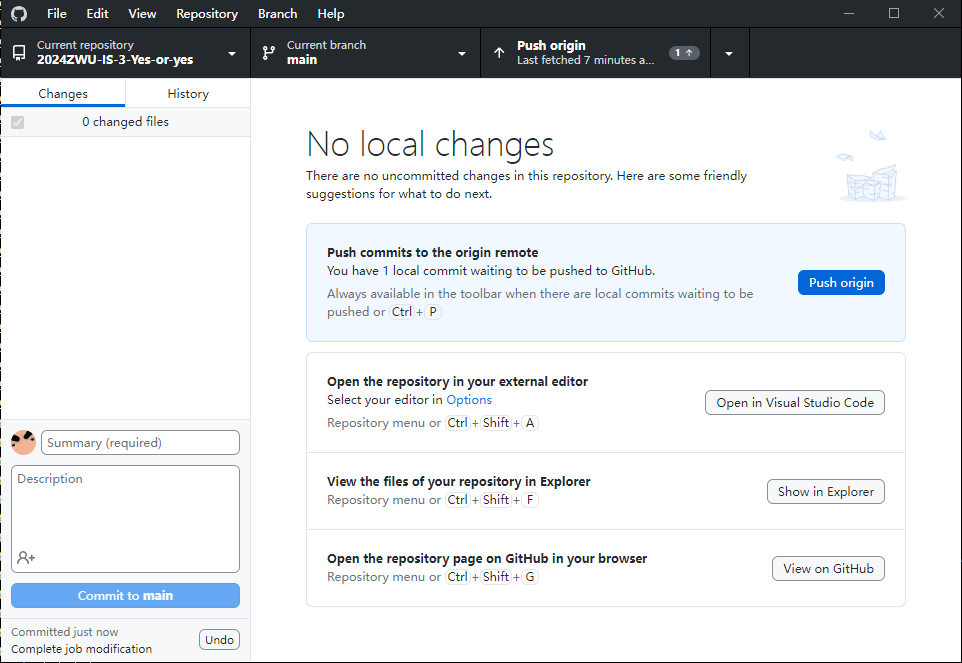
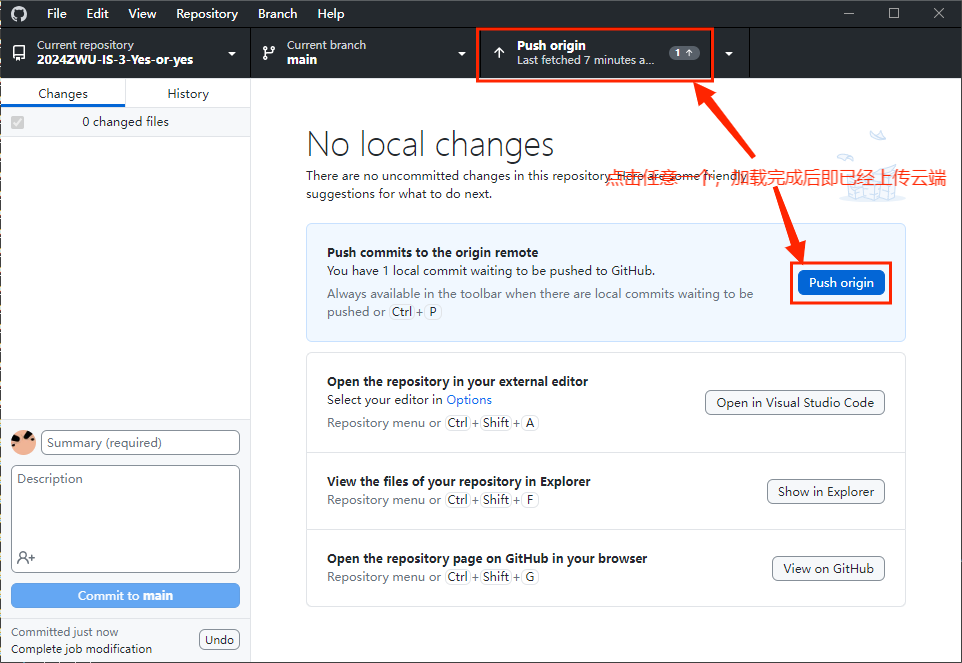
pm部分前四个问题更改完成

diff --git a/dailyhomework/pm/pm.html b/dailyhomework/pm/pm.html
@@ -250,7 +250,19 @@
       <!--第三部分-->
         <section id="section3"><h2>03 How to build the web in github</h2>
         <section id="subsection3-1"><h3>Step1:Write locally and upload to the cloud</h3>
-
+        <h4>a-Write locally</h4>
+        <img src="./pm-4/pm-4-5.PNG">
+        <P>a.1-Open the local <b>github</b> and click <b>Open in Visual Studio Code</b></P>
+        <img src="./pm-4/pm-4-6.PNG">
+        <p>a.2-VScode will automatically open the folder corresponding to the library, that is, you can start writing 
+        <br>web code.</p>
+        <h4>b-Upload to the cloud</h4>
+        <img src="./pm-4/pm-4-7.PNG">
+        <p>b.1-Go back to the github local terminal, write down the remarks of this change in the lower left corner 
+        <br>window, and then click <b>Commit to main</b> to prepare before uploading to the cloud.</p>
+        <img src="./pm-4/pm-4-8.PNG">
+        <p>b.2-Click any Push origin button, after the loading is complete, the changed code information has been 
+        <br>uploaded to the cloud.</p>
         <section id="subsection3-2"><h3>Step2:Build a files for each section of the web</h3>
         <img src="./pm-4/pm-4-1.PNG">
         <p>In the overall file, our group placed <b>the cover file index.html</b> independently, 
